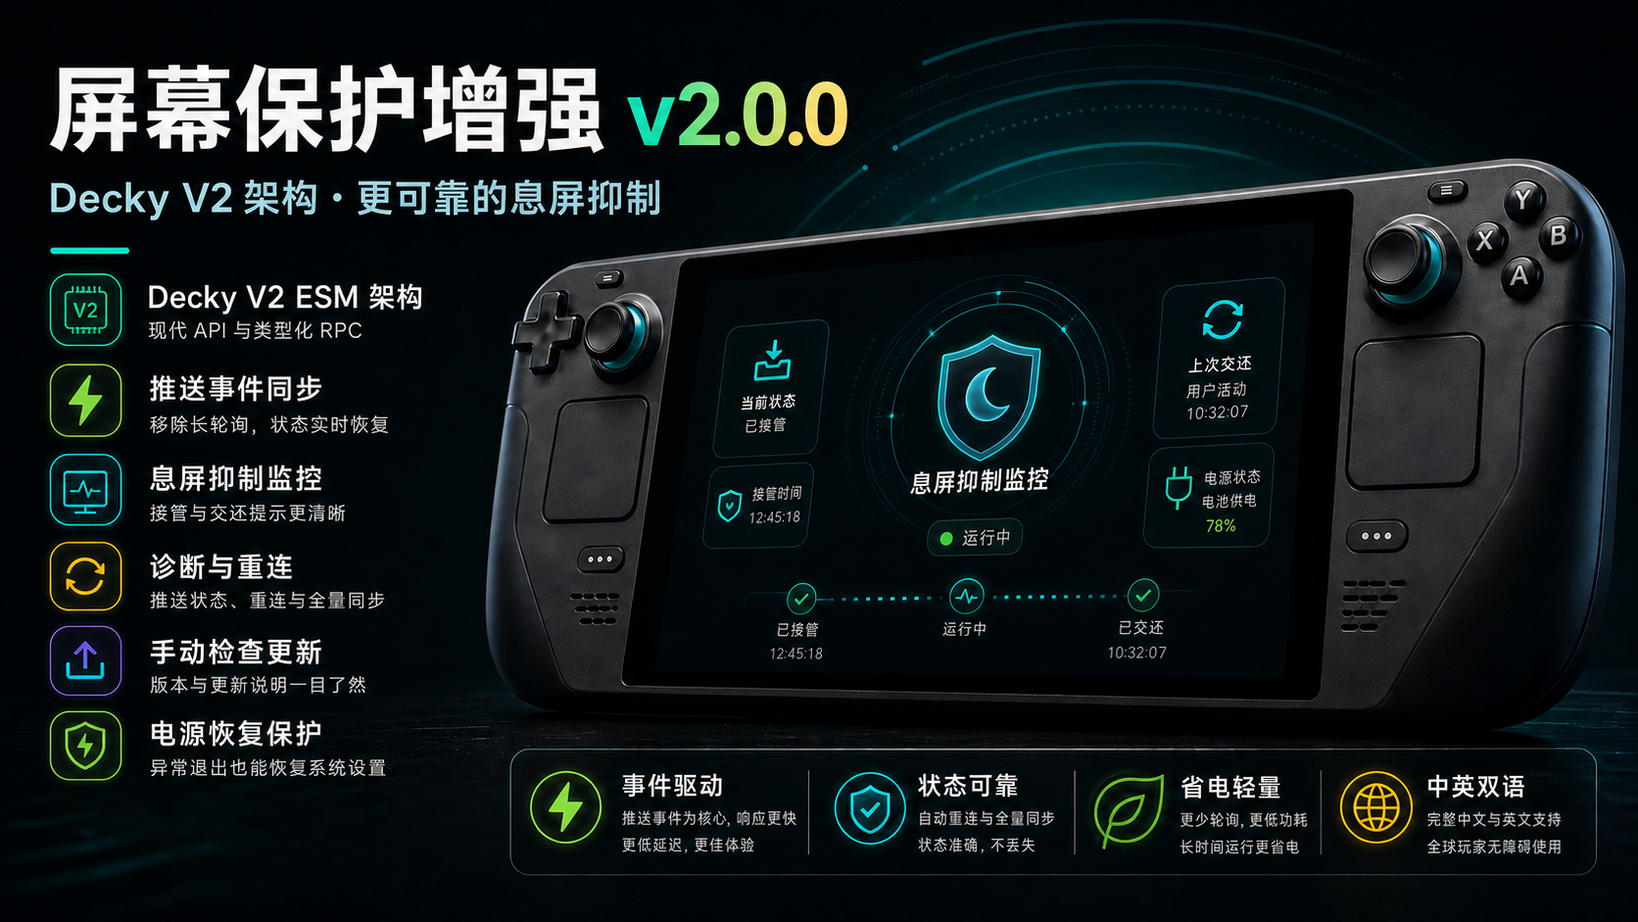
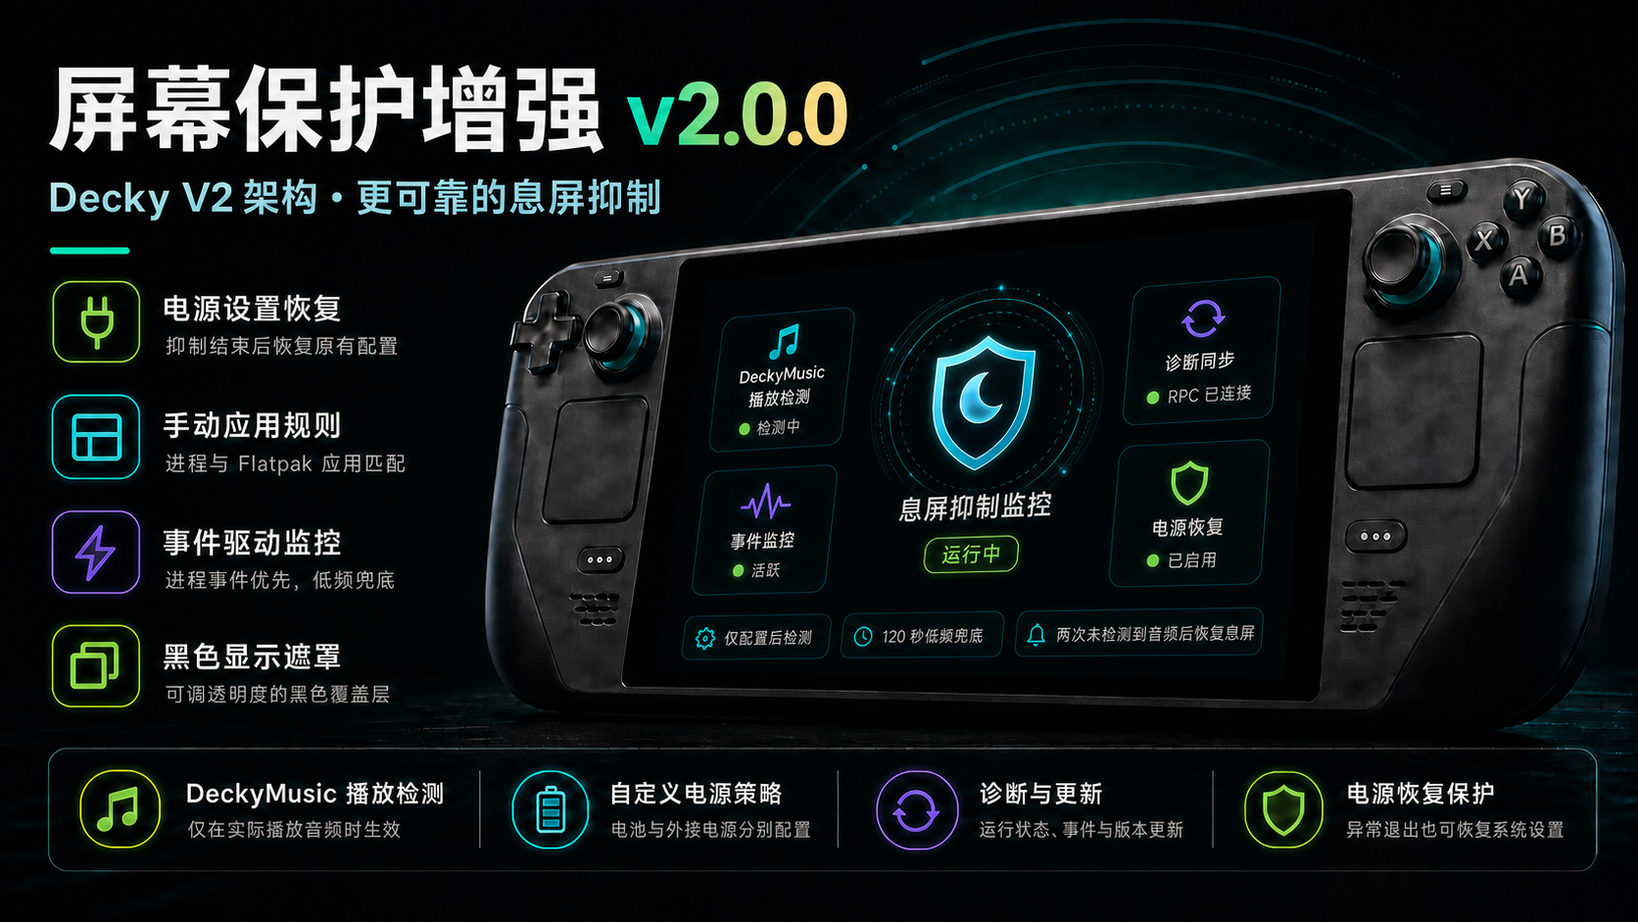
chore：update MD,screenshot,profile

diff --git a/README.md b/README.md
@@ -1,99 +1,71 @@
+<div align="center">
+
 # ScreenSaver Enhancements
 
-[中文说明](./README_ZH.md)
+[![Release](https://img.shields.io/github/v/release/Grails125/ScreenSaverEnhancements?display_name=tag&sort=semver)](https://github.com/Grails125/ScreenSaverEnhancements/releases/latest)
+[![Downloads](https://img.shields.io/github/downloads/Grails125/ScreenSaverEnhancements/total)](https://github.com/Grails125/ScreenSaverEnhancements/releases)
+[![License](https://img.shields.io/github/license/Grails125/ScreenSaverEnhancements)](./LICENSE)
 
-ScreenSaver Enhancements is a Decky Loader plugin for Steam Deck. It keeps the screen awake while supported media apps request inhibition through D-Bus, or while user-selected processes are running.
+Keep your Steam Deck screen awake while media is playing or selected applications are running.
 
-This project is based on [xfangfang/DeckyInhibitScreenSaver](https://github.com/xfangfang/DeckyInhibitScreenSaver) and adds manual process monitoring plus a richer management panel.
+[中文说明](./README_ZH.md) | English
 
-## Changelog
+</div>
 
-### 2.0.0
-
-#### V2 architecture
-
-- Migrated the frontend to Decky V2 ESM with `@decky/api`, `@decky/ui`, and typed callable RPC.
-- Migrated the backend to the modern `decky` module and removed the legacy RPC adapter and event long polling.
-- Replaced polling with Decky push events backed by full-state synchronization for loss, ordering, and reconnect recovery.
-- Added power-override recovery snapshots and disconnected D-Bus client reconciliation so system sleep settings can recover after failures.
-
-#### Features and experience
-
-- Renamed the background monitor to Sleep Inhibition Monitor with explicit enable and disable notifications.
-- Added separate custom screen-dim and system-suspend timeouts for battery and AC power, with the user configuration restored after inhibition ends.
-- Consolidated monitor and process-listener diagnostics and added push-listener, reconnect-count, and last-full-sync status.
-- Added manual update checking, version details, and release notes at the bottom of the plugin panel.
-- Fixed DeckyMusic inhibition remaining active after the monitor was disabled.
-
-### 1.3.0
-
-#### Added and improved
-
-- Added a black mask display switch and transparency adjustment.
-- Improved feature separation by moving the application configuration for preventing screen sleep to the secondary page.
-- Improved compatibility with newer SteamOS and SteamClient API versions.
-
-### 1.2.0
-
-#### Added and improved
-
-- Frontend poll interval: 1s → 3s; IPC/backend load reduced by 3x.
-- Settings check frequency: 5s → 30s; IPC calls reduced by 6x.
-- UI process-list refresh: 10s → 30s; `ps` subprocess calls reduced by 3x.
-- Removed the per-second full-DOM scan: `querySelectorAll('audio')`.
-- Reworked `installAudioTracker` to use shared handler functions instead of creating closures for every `play`, reducing GC pressure.
-- Removed duplicate process checks from backend `get_event()`; `ps` command frequency changed from every second to every 5–10 seconds.
-- Added adaptive `_manual_watch_loop` polling: 10s idle / 5s active, reducing idle CPU usage by 83%–91%.
-
-### 1.1.0
-
-#### Added and improved
-
-- Fixed the manual inhibit list not applying to newly added applications.
-- Improved process matching for short command names, complete command arguments, long executable names, and Flatpak app IDs.
-- Added DeckyMusic-specific handling: it inhibits sleep only while actual audio playback is detected, not merely because its plugin process is running.
-- Improved coordination between D-Bus automatic inhibition and manual process inhibition.
+ScreenSaver Enhancements is a [Decky Loader](https://decky.xyz) plugin for Steam Deck. It handles standard D-Bus sleep-inhibition requests from supported media apps and can also monitor applications you choose yourself.
 
 ## Features
 
-- **D-Bus inhibit support**: Compatible with apps that use standard inhibit APIs, such as VLC, Chrome, mpv, and wiliwili.
-- **Manual process monitoring**: Add running processes to an inhibit list and keep the screen awake while they exist.
-- **Robust process matching**: Matches short command names, full command arguments, long executable names, and Flatpak app IDs.
-- **Backend watcher**: Manual process checks run in the plugin backend, so they do not depend on the Decky panel staying open.
-- **DeckyMusic special handling**: DeckyMusic is not inhibited merely because its plugin process is running. If enabled in the inhibit list, it is handled by frontend audio playback detection.
-- **Run on login**: Automatically starts the background monitor when Decky Loader starts.
+- **D-Bus sleep inhibition** — supports standard inhibition requests from apps such as VLC, Chrome, mpv, and wiliwili. *(v1.0.0)*
+- **Power settings recovery** — saves the current SteamOS screen-dim and suspend configuration before taking control, then restores it when inhibition ends or recovery is needed. *(v1.0.0)*
+- **Manual application rules** — choose running processes that should keep the screen awake, including Flatpak app IDs and full command lines. *(v1.0.0)*
+- **DeckyMusic-aware playback detection** — detects actual audio playback from the backend only when a DeckyMusic rule is configured. It tolerates one short missed check before restoring normal sleep behavior, preventing false restores during track changes or brief stalls. *(v1.1.0, optimized in v2.0.0)*
+- **Event-driven application monitoring** — listens for kernel process events when available and uses a 120-second fallback scan when necessary. DeckyMusic's 5-second audio check is independent, so it does not force repeated full process scans. *(v1.3.0, optimized in v2.0.0)*
+- **Black display overlay** — optionally show a black overlay with adjustable opacity. *(v1.3.0)*
+- **Separate battery and AC settings** — customize screen-dim and system-suspend timeouts for battery and external power, with two-way synchronization to the system settings. *(v2.0.0)*
+- **V2 typed API and state synchronization** — uses Decky's modern typed RPC and push events for settings and inhibition state, with full-state reconciliation after a listener reconnect. *(v2.0.0)*
+- **Diagnostics and updates** — inspect monitor mode, process activity, inhibition source, D-Bus requests, power override state, recent events, and event-channel health; copy the report or update from the plugin panel. *(v2.0.0)*
+- **Reliable lifecycle handling** — waits for pending inhibition notifications to cancel during unload/restart and packages all required backend modules with the release. *(v2.0.0)*
 
 ## Screenshots
 
-| Main panel | Settings panel |
+### Main panel
+
+| Monitor and main controls | Mask switches and settings | App rules, diagnostics, and update entry points |
+| --- | --- | --- |
+| ![Monitor and main controls](./docs/Screenshot/mainPage_en_1.jpg) | ![Mask switches and settings](./docs/Screenshot/mainPage_en_2.jpg) | ![App rules, diagnostics, and update entry points](./docs/Screenshot/mainPage_en_3.jpg) |
+
+### Application rules
+
+| Configured inhibit list | Running-process selection |
 | --- | --- |
-| ![Main panel overview](./docs/Screenshot/mainPage_1.jpg) | ![Main panel status](./docs/Screenshot/mainPage_2.jpg) |
-| ![Settings overview](./docs/Screenshot/secondaryPage_1.jpg) | ![Settings options](./docs/Screenshot/secondaryPage_2.jpg) |
+| ![Configured inhibit list](./docs/Screenshot/inhibitApps_en_1.jpg) | ![Running-process selection](./docs/Screenshot/inhibitApps_en_2.jpg) |
+
+### Diagnostics and power profiles
+
+| Runtime diagnostics | Recent diagnostic events |
+| --- | --- |
+| ![Runtime diagnostics](./docs/Screenshot/diagnostics_en_1.jpg) | ![Recent diagnostic events](./docs/Screenshot/diagnostics_en_2.jpg) |
+
+![Battery and AC power profile configuration](./docs/Screenshot/powerProfiles_en.jpg)
 
 ## Install
 
-1. Install [Decky Loader](https://decky.xyz).
-2. Build or download `ScreenSaverEnhancements.zip`.
-3. Extract the `ScreenSaverEnhancements` folder into:
-   `/home/deck/homebrew/plugins/`
-4. Restart Steam or reload Decky Loader.
+### Prerequisite
 
-## How It Works
+Install [Decky Loader](https://decky.xyz) first. If it is not installed, run the official installer on the Steam Deck:
 
-The plugin uses two paths:
+```sh
+curl -L https://github.com/SteamDeckHomebrew/decky-installer/releases/latest/download/install_release.sh | sh
+```
 
-- **D-Bus mode** registers standard sleep-inhibition services. When an app calls `Inhibit`, the backend emits a Decky state-change signal and the frontend fetches the complete state before managing SteamOS idle and suspend settings.
-- **Manual mode** prefers kernel process events and automatically falls back to low-frequency scanning when unavailable. Matches use the same state synchronization and power-control path as D-Bus requests.
+### Release package
 
-The plugin stores the current system power configuration before inhibition starts. When every inhibitor ends, or when the plugin recovers from an interruption, it restores that snapshot instead of writing fixed defaults.
+1. Download `ScreenSaverEnhancements.zip` from the [latest release](https://github.com/Grails125/ScreenSaverEnhancements/releases/latest).
+2. Open **Decky Settings** → **Developer** → **Install Plugin from ZIP**.
+3. Select the downloaded ZIP package and complete the installation.
 
-## DeckyMusic
-
-DeckyMusic is a long-running plugin process, so process-based monitoring would keep the screen awake even while music is paused. This plugin skips DeckyMusic in backend process matching.
-
-If `DeckyMusic` is in the inhibit list, the frontend watches real HTML media playback state instead. It only inhibits while audio is actually playing.
-
-## Development
+### Build from source
 
 ```powershell
 npm.cmd install
@@ -101,4 +73,45 @@ npm.cmd test
 python build.py
 ```
 
-`npm.cmd test` runs TypeScript validation and any discovered unit tests. Build output is written to `build/ScreenSaverEnhancements` and `build/ScreenSaverEnhancements.zip`.
+The package is created at `build/ScreenSaverEnhancements.zip`. Install it using the release-package steps above.
+
+## Upgrade
+
+The plugin can check for updates from the bottom of its panel. When a newer release is available, open the update section, review the version and release notes, then start the upgrade there.
+
+To upgrade manually, download the latest release package, then select it through **Decky Settings** → **Developer** → **Install Plugin from ZIP**.
+
+## Uninstall
+
+1. Open **Decky Settings** → **Plugins**.
+2. Find **ScreenSaver Enhancements** and select **Uninstall**.
+3. Confirm the uninstall when prompted.
+
+## How it works
+
+The plugin uses two complementary sources of inhibition:
+
+- **D-Bus mode** registers standard sleep-inhibition services. When an application calls `Inhibit`, the backend pushes a state update and the frontend applies the configured SteamOS power behavior.
+- **Manual mode** watches the configured process rules. It prefers process events and automatically switches to low-frequency scanning when the event source is unavailable.
+
+DeckyMusic is a specialized manual rule: its audio state is checked every five seconds only while the rule is configured. Normal manual application rules remain event-driven, with a 120-second fallback scan, so the two paths do not multiply process-scanning work.
+
+Both sources share the same state synchronization and power-control path. Before overriding power behavior, the plugin records the current settings; once every inhibitor ends, it restores that saved configuration instead of writing fixed defaults.
+
+## Development
+
+| Command | Description |
+| --- | --- |
+| `npm.cmd install` | Install frontend dependencies. |
+| `npm.cmd test` | Run TypeScript validation and discovered JavaScript and Python tests. |
+| `npm.cmd run build` | Build the frontend bundle. |
+| `python build.py` | Build the installable plugin directory and ZIP package. |
+
+## Credits
+
+- [xfangfang/DeckyInhibitScreenSaver](https://github.com/xfangfang/DeckyInhibitScreenSaver) — the project this plugin extends.
+- [Decky Loader](https://github.com/SteamDeckHomebrew/decky-loader) — Steam Deck plugin loader and platform.
+
+## License
+
+This project is licensed under the [BSD 3-Clause License](./LICENSE).

diff --git a/README_ZH.md b/README_ZH.md
@@ -1,101 +1,71 @@
-# ScreenSaver Enhancements（屏幕保护增强）
+<div align="center">
 
-[English](./README.md)
+# 屏幕保护增强
 
-ScreenSaver Enhancements 是一个 Steam Deck 的 Decky Loader 插件，用于在视频播放、网页浏览、音乐播放或指定应用运行时阻止屏幕调暗和系统休眠。
+[![Release](https://img.shields.io/github/v/release/Grails125/ScreenSaverEnhancements?display_name=tag&sort=semver)](https://github.com/Grails125/ScreenSaverEnhancements/releases/latest)
+[![Downloads](https://img.shields.io/github/downloads/Grails125/ScreenSaverEnhancements/total)](https://github.com/Grails125/ScreenSaverEnhancements/releases)
+[![License](https://img.shields.io/github/license/Grails125/ScreenSaverEnhancements)](./LICENSE)
 
-本项目基于 [xfangfang/DeckyInhibitScreenSaver](https://github.com/xfangfang/DeckyInhibitScreenSaver) 扩展，保留原版 D-Bus 抑制休眠能力，并新增手动进程监听和更完整的管理界面。
+在媒体播放或指定应用运行时，让 Steam Deck 保持亮屏。
 
-## 更新内容
+中文 | [English](./README.md)
 
-### 2.0.0
+</div>
 
-![屏幕保护增强 v2.0.0 更新封面](./docs/release-cover-zh-v2.0.0.png)
-
-#### V2 架构升级
-
-- 前端迁移到 Decky V2 ESM 架构，使用 `@decky/api`、`@decky/ui` 和 typed callable RPC。
-- 后端迁移到现代 `decky` 模块，移除 legacy RPC 适配器与事件长轮询。
-- 设置与息屏抑制状态改为 Decky 推送事件，结合全量状态同步处理丢失、乱序和重连恢复。
-- 增加电源覆盖恢复快照和失联 D-Bus 客户端巡检，异常退出后也能恢复系统息屏配置。
-
-#### 功能与体验
-
-- “后台监控”升级为“息屏抑制监控”，开关通知明确区分接管与交还系统息屏。
-- 支持分别自定义电池与电源模式下的屏幕调暗、系统休眠时间；息屏抑制结束后恢复用户配置。
-- 诊断页融合监控状态与进程监听模式，增加推送监听、重连次数和最近全量同步结果。
-- 增加手动检查更新、版本信息和更新说明，并将检查更新区域放在插件面板最下方。
-- 修复关闭监控后 DeckyMusic 仍可能保持息屏抑制的问题。
-
-### 1.3.0
-
-#### 新增与改进
-
-- 增加黑色遮罩显示开关、透明度调节。
-- 优化功能区分，将禁用息屏应用配置移至二级页面。
-- 优化新版 SteamOS 和 SteamClient API 的兼容性。
-
-### 1.2.0
-
-#### 新增与改进
-
-- 前端轮询间隔 1s → 3s，IPC/后端负载降低 3x。
-- 设置检查频率 5s → 30s，IPC 调用减少 6x。
-- UI 进程列表刷新 10s → 30s，`ps` 子进程调用减少 3x。
-- 移除每秒 DOM 全量扫描 `querySelectorAll('audio')`。
-- `installAudioTracker` 改用共享函数替代每次 `play` 创建闭包，减少 GC 压力。
-- 后端 `get_event()` 移除重复的进程检查调用，`ps` 命令频率从每秒降到每 5–10 秒。
-- `_manual_watch_loop` 自适应轮询：空闲 10s / 活跃 5s，空闲时 CPU 使用降低 83%–91%。
-
-### 1.1.0
-
-#### 新增与改进
-
-- 修复手动阻止休眠列表对新应用不生效的问题。
-- 增强进程匹配能力：支持短进程名、完整启动参数、长可执行文件名和 Flatpak App ID。
-- 新增 DeckyMusic 特殊处理：不再因为 DeckyMusic 插件进程常驻就一直阻止休眠，只有检测到真实音频播放时才阻止休眠。
-- 优化 D-Bus 自动阻止休眠与手动进程阻止休眠的状态合并逻辑。
+ScreenSaver Enhancements 是一个用于 Steam Deck 的 [Decky Loader](https://decky.xyz) 插件。它可以处理受支持媒体应用发出的标准 D-Bus 息屏抑制请求，也可以监控你手动选择的应用。
 
 ## 功能
 
-- **D-Bus 自动抑制**：兼容 VLC、Chrome、mpv、wiliwili 等会主动发送 inhibit 请求的应用。
-- **手动进程监听**：可以把正在运行的进程加入阻止休眠列表，只要目标进程存在就保持屏幕常亮。
-- **更稳的进程匹配**：支持短命令名、完整命令行、长可执行文件名和 Flatpak app id。
-- **后端常驻监听**：手动进程扫描在插件后端运行，不依赖 Decky 面板一直打开。
-- **DeckyMusic 特殊处理**：不会因为 DeckyMusic 插件进程常驻就一直阻止休眠；如果列表中启用了 DeckyMusic，则只在真实音频播放时阻止休眠。
-- **开机自启**：Decky Loader 启动后可自动启动后台监听。
+- **D-Bus 息屏抑制**：支持 VLC、Chrome、mpv、wiliwili 等应用的标准抑制请求。*（v1.0.0）*
+- **电源设置恢复**：接管前保存当前 SteamOS 的调暗与休眠配置；抑制结束或需要恢复时自动还原。*（v1.0.0）*
+- **手动应用规则**：选择需要保持亮屏的运行中进程，支持 Flatpak 应用 ID 和完整命令行匹配。*（v1.0.0）*
+- **DeckyMusic 播放检测**：不会仅因 DeckyMusic 进程常驻就持续抑制息屏；仅在配置 DeckyMusic 规则后由后端检测实际音频播放。连续一次短暂未检测到音频不会立即恢复息屏，可避免切歌或短暂卡顿误判。*（v1.1.0，v2.0.0 优化）*
+- **事件驱动的应用监控**：优先监听内核进程事件；不可用时每 120 秒低频兜底扫描。DeckyMusic 的 5 秒音频检测与普通应用进程扫描解耦，不会额外触发完整进程扫描。*（v1.3.0，v2.0.0 优化）*
+- **黑色显示遮罩**：可选黑色遮罩，支持透明度调整。*（v1.3.0）*
+- **电池与外接电源分别配置**：可自定义设置电池和外接电源模式下的调暗、系统休眠超时并与系统设置双向同步。*（v2.0.0）*
+- **V2 类型化接口与状态同步**：使用 Decky 现代类型化 RPC 和状态推送处理设置、息屏抑制状态；监听恢复后会进行完整状态同步。*（v2.0.0）*
+- **诊断与更新**：可查看监控模式、进程活动、禁用来源、D-Bus 请求、电源覆盖状态、最近事件与事件通道健康度；支持复制诊断报告，并可在插件面板内检查更新。*（v2.0.0）*
+- **可靠的生命周期处理**：卸载或重启时会等待待处理的息屏状态通知取消完成，并确保发布包包含全部后端模块。*（v2.0.0）*
 
 ## 截图
 
-| 主面板 | 设置面板 |
+### 主面板
+
+| 监控与主要控制 | 遮罩开关与设置 | 应用规则、诊断与更新入口 |
+| --- | --- | --- |
+| ![监控与主要控制](./docs/Screenshot/mainPage_zh_1.jpg) | ![遮罩开关与设置](./docs/Screenshot/mainPage_zh_2.jpg) | ![应用规则、诊断与更新入口](./docs/Screenshot/mainPage_zh_3.jpg) |
+
+### 禁用息屏应用
+
+| 已配置的禁用列表 | 运行中进程选择 |
 | --- | --- |
-| ![主面板概览](./docs/Screenshot/mainPage_1.jpg) | ![主面板状态](./docs/Screenshot/mainPage_2.jpg) |
-| ![设置概览](./docs/Screenshot/secondaryPage_1.jpg) | ![设置选项](./docs/Screenshot/secondaryPage_2.jpg) |
+| ![已配置的禁用列表](./docs/Screenshot/inhibitApps_zh_1.jpg) | ![运行中进程选择](./docs/Screenshot/inhibitApps_zh_2.jpg) |
+
+### 诊断与电源策略
+
+| 运行时诊断 | 最近诊断事件 |
+| --- | --- |
+| ![运行时诊断](./docs/Screenshot/diagnostics_zh_1.jpg) | ![最近诊断事件](./docs/Screenshot/diagnostics_zh_2.jpg) |
+
+![电池与外接电源策略配置](./docs/Screenshot/powerProfiles_zh.jpg)
 
 ## 安装
 
-1. 安装 [Decky Loader](https://decky.xyz)。
-2. 构建或下载 `ScreenSaverEnhancements.zip`。
-3. 解压后把 `ScreenSaverEnhancements` 文件夹放到：
-   `/home/deck/homebrew/plugins/`
-4. 重启 Steam，或在 Decky 菜单中重新加载插件。
+### 前置条件
 
-## 工作方式
+请先安装 [Decky Loader](https://decky.xyz)。如尚未安装，可在 Steam Deck 上运行官方安装命令：
 
-插件有两条触发路径：
+```sh
+curl -L https://github.com/SteamDeckHomebrew/decky-installer/releases/latest/download/install_release.sh | sh
+```
 
-- **D-Bus 模式**注册标准息屏抑制服务。应用调用 `Inhibit` 后，后端通过 Decky 推送发出状态变化信号，前端获取完整状态并接管 SteamOS 的调暗和休眠设置。
-- **手动模式**优先监听内核进程事件，无法使用时自动切换为低频扫描。命中配置列表后，与 D-Bus 模式共用同一套状态同步和电源控制流程。
+### 使用发布包安装
 
-开始抑制时会保存当前系统电源配置；当所有自动和手动抑制都结束，或插件异常恢复时，会还原该快照，而不是写入固定默认值。
+1. 从[最新发布页](https://github.com/Grails125/ScreenSaverEnhancements/releases/latest)下载 `ScreenSaverEnhancements.zip`。
+2. 打开 **Decky 设置** → **开发者** → **从 ZIP 安装插件**。
+3. 选择下载的 ZIP 包并完成安装。
 
-## DeckyMusic
-
-DeckyMusic 是一个常驻插件进程，单纯按进程名监听会导致它即使暂停播放也一直阻止休眠。因此本插件会在后端进程匹配中跳过 DeckyMusic。
-
-如果阻止列表中包含 `DeckyMusic`，前端会监听真实的 HTML 媒体播放状态，只在音频实际播放时阻止休眠。
-
-## 开发
+### 从源码构建
 
 ```powershell
 npm.cmd install
@@ -103,4 +73,45 @@ npm.cmd test
 python build.py
 ```
 
-`npm.cmd test` 会执行 TypeScript 校验和已发现的单元测试。构建产物会输出到 `build/ScreenSaverEnhancements` 和 `build/ScreenSaverEnhancements.zip`。
+构建产物位于 `build/ScreenSaverEnhancements.zip`，然后按上述发布包安装步骤安装即可。
+
+## 更新
+
+插件面板底部提供更新检查功能。发现新版本后，可在更新区域查看版本与发布说明，并直接开始升级。
+
+也可以手动下载最新发布包，然后在 **Decky 设置** → **开发者** → **从 ZIP 安装插件** 中选择该 ZIP 包完成升级。
+
+## 卸载
+
+1. 打开 **Decky 设置** → **插件**。
+2. 找到 **屏幕保护增强**，选择 **卸载**。
+3. 根据提示确认卸载。
+
+## 工作原理
+
+插件通过两种互补的方式决定是否保持亮屏：
+
+- **D-Bus 模式**：注册标准息屏抑制服务。应用调用 `Inhibit` 后，后端会推送状态更新，由前端按配置接管 SteamOS 的电源行为。
+- **手动模式**：监控已配置的进程规则。优先使用进程事件；事件源不可用时自动改用低频扫描。
+
+DeckyMusic 属于专用的手动规则：只有配置该规则后才会每 5 秒检测一次音频状态。普通手动应用仍以事件驱动为主，并以每 120 秒扫描兜底；两条路径彼此独立，不会叠加进程扫描负担。
+
+两种方式共用同一套状态同步和电源控制流程。接管电源行为前，插件会记录当前设置；所有抑制结束后，会恢复这份保存的配置，而不是写入固定的默认值。
+
+## 开发
+
+| 命令 | 说明 |
+| --- | --- |
+| `npm.cmd install` | 安装前端依赖。 |
+| `npm.cmd test` | 运行 TypeScript 校验，以及已发现的 JavaScript 和 Python 测试。 |
+| `npm.cmd run build` | 构建前端包。 |
+| `python build.py` | 构建可安装的插件目录和 ZIP 包。 |
+
+## 致谢
+
+- [xfangfang/DeckyInhibitScreenSaver](https://github.com/xfangfang/DeckyInhibitScreenSaver)：本项目扩展自该插件。
+- [Decky Loader](https://github.com/SteamDeckHomebrew/decky-loader)：Steam Deck 插件加载器和平台。
+
+## 许可证
+
+本项目使用 [BSD 3-Clause License](./LICENSE)。
